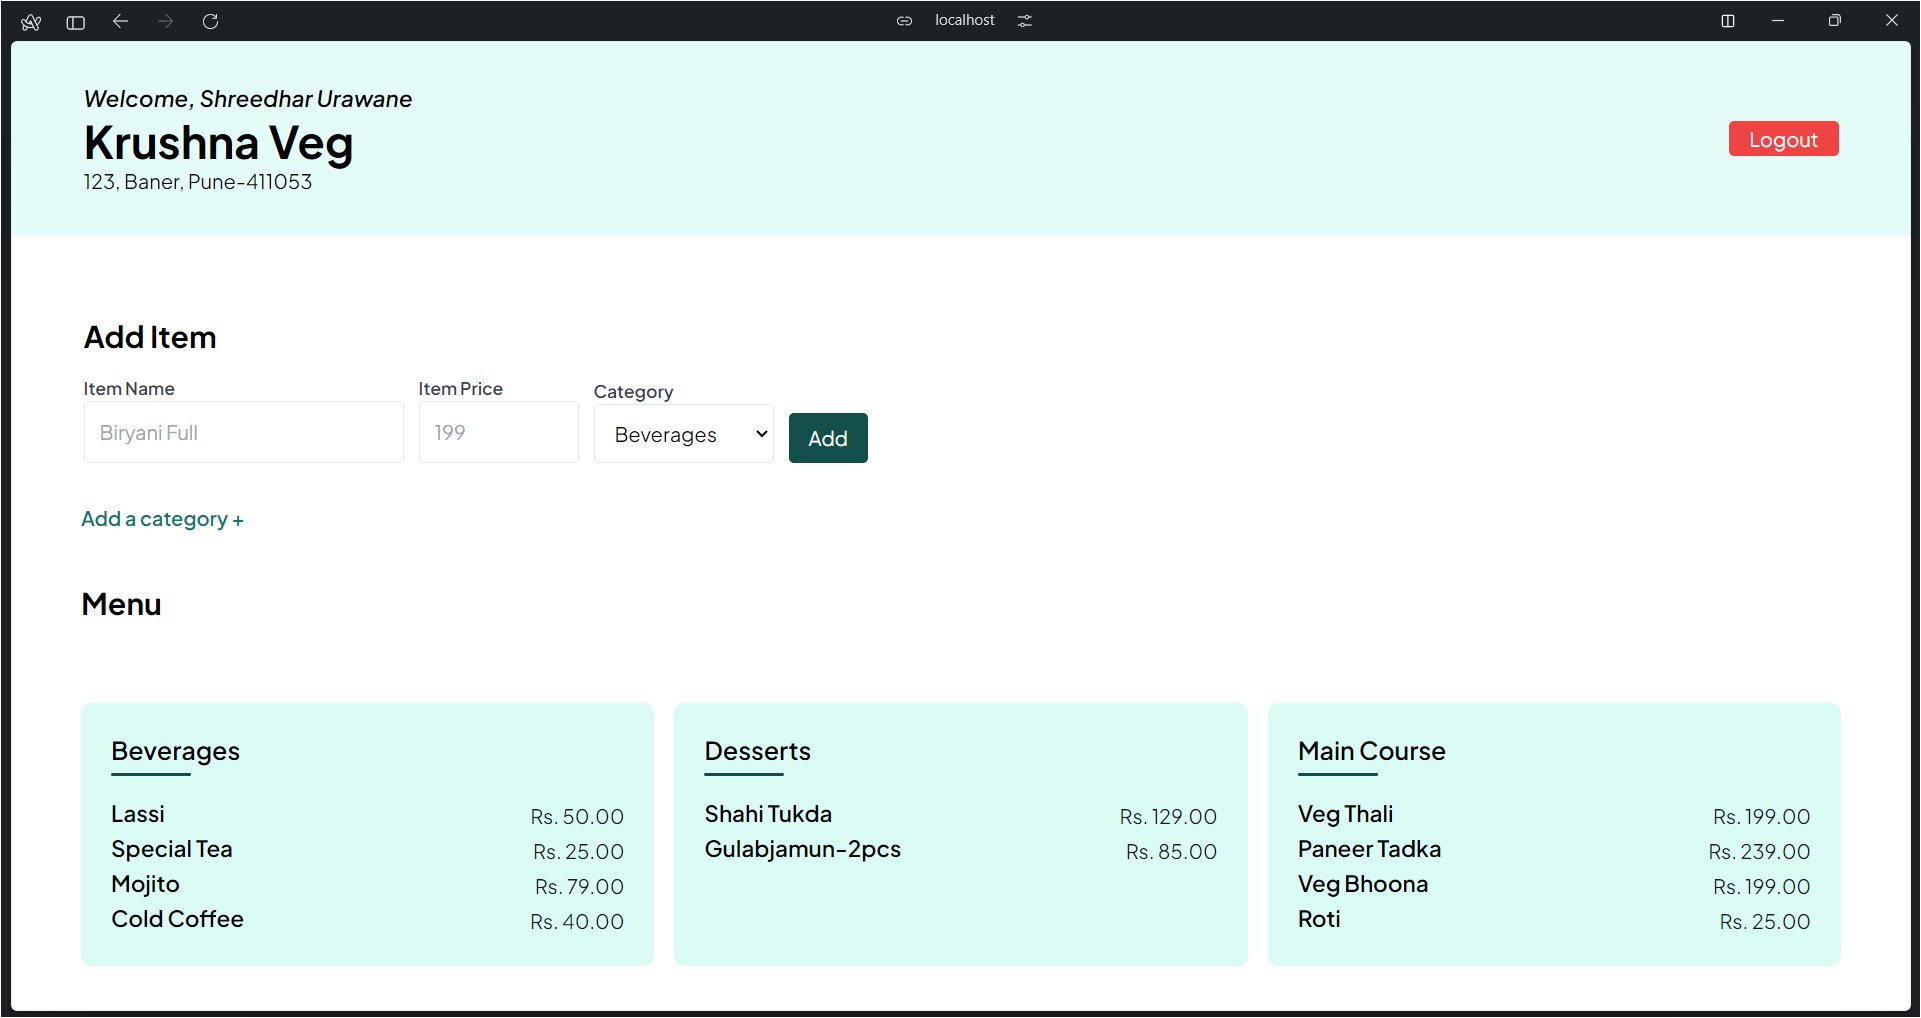
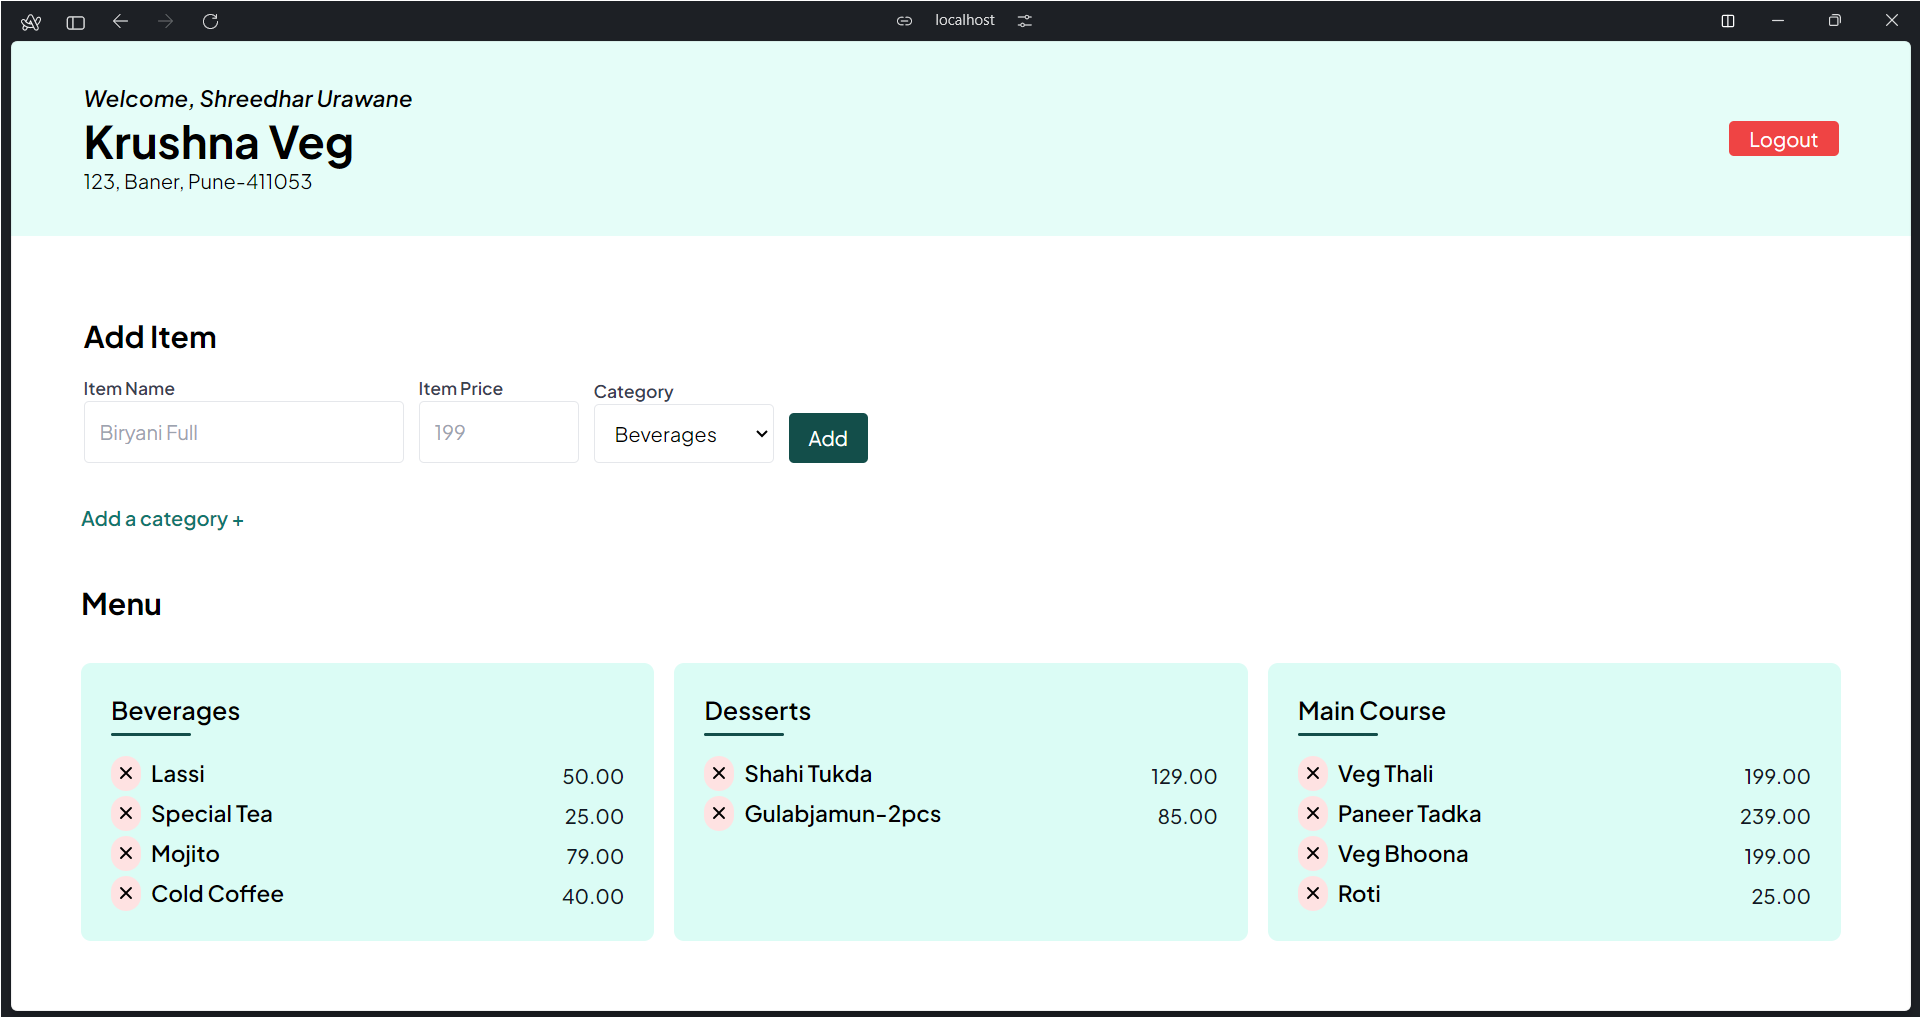
add delete button for menu item

Changed region(s): [[0.0312, 0.6395, 0.9682, 0.9745], [0.5934, 0.7917, 0.6247, 0.8527]]

diff --git a/pages/user.php b/pages/user.php
@@ -168,7 +168,7 @@
 
     <div class="max-w-[1550px] mx-auto px-14 py-8">
         <h2 class="text-2xl font-bold">Menu</h2>
-        <div class="py-8 grid grid-cols-1 sm:grid-cols-2 lg:grid-cols-3 gap-4">
+        <div class="grid grid-cols-1 sm:grid-cols-2 lg:grid-cols-3 gap-4">
 
             <?php foreach ($menu_items as $category => $items) { ?>
                 <div class="mt-8 bg-teal-100/70 p-6 rounded-lg">
@@ -179,14 +179,25 @@
                     <!-- divider -->
                     <div class="w-16 h-[2px] bg-teal-900 mb-4 mt-1 rounded"></div>
 
-                    <div class="">
+                    <div class="flex flex-col gap-1">
                         <?php foreach ($items as $item) { ?>
                             <div class="flex items-end justify-between">
-                                <h3 class="text-lg font-semibold">
-                                    <?php echo htmlspecialchars($item['name']); ?>
-                                </h3>
-                                <p class="text-gray-900">
-                                    Rs. <?php echo htmlspecialchars($item['price']); ?>
+                                <div class="flex gap-2">
+                                    <?php if (isset($_SESSION['user_id'])) {
+                                    ?>
+                                        <button class="text-red-500 text-[3px] bg-red-100 rounded-full focus:outline-none hover:bg-red-200" onclick="handleDeleteItem(<?php echo $item['id']; ?>)">
+                                            <img src="../assets/cross.svg" class="w-6 h-6" alt="delete" />
+                                        </button>
+                                    <?php
+                                    }
+                                    ?>
+
+                                    <h3 class="text-lg font-semibold">
+                                        <?php echo htmlspecialchars($item['name']); ?>
+                                    </h3>
+                                </div>
+                                <p class="text-gray-900 font-medium">
+                                    <?php echo htmlspecialchars($item['price']); ?>
                                 </p>
                             </div>
                         <?php } ?>

diff --git a/pages/menu.php b/pages/menu.php
@@ -129,7 +129,7 @@ if (!$menu) {
                                     </h3>
                                 </div>
                                 <p class="text-gray-900">
-                                    Rs. <?php echo htmlspecialchars($item['price']); ?>
+                                    <?php echo htmlspecialchars($item['price']); ?>
                                 </p>
                             </div>
                         <?php } ?>
